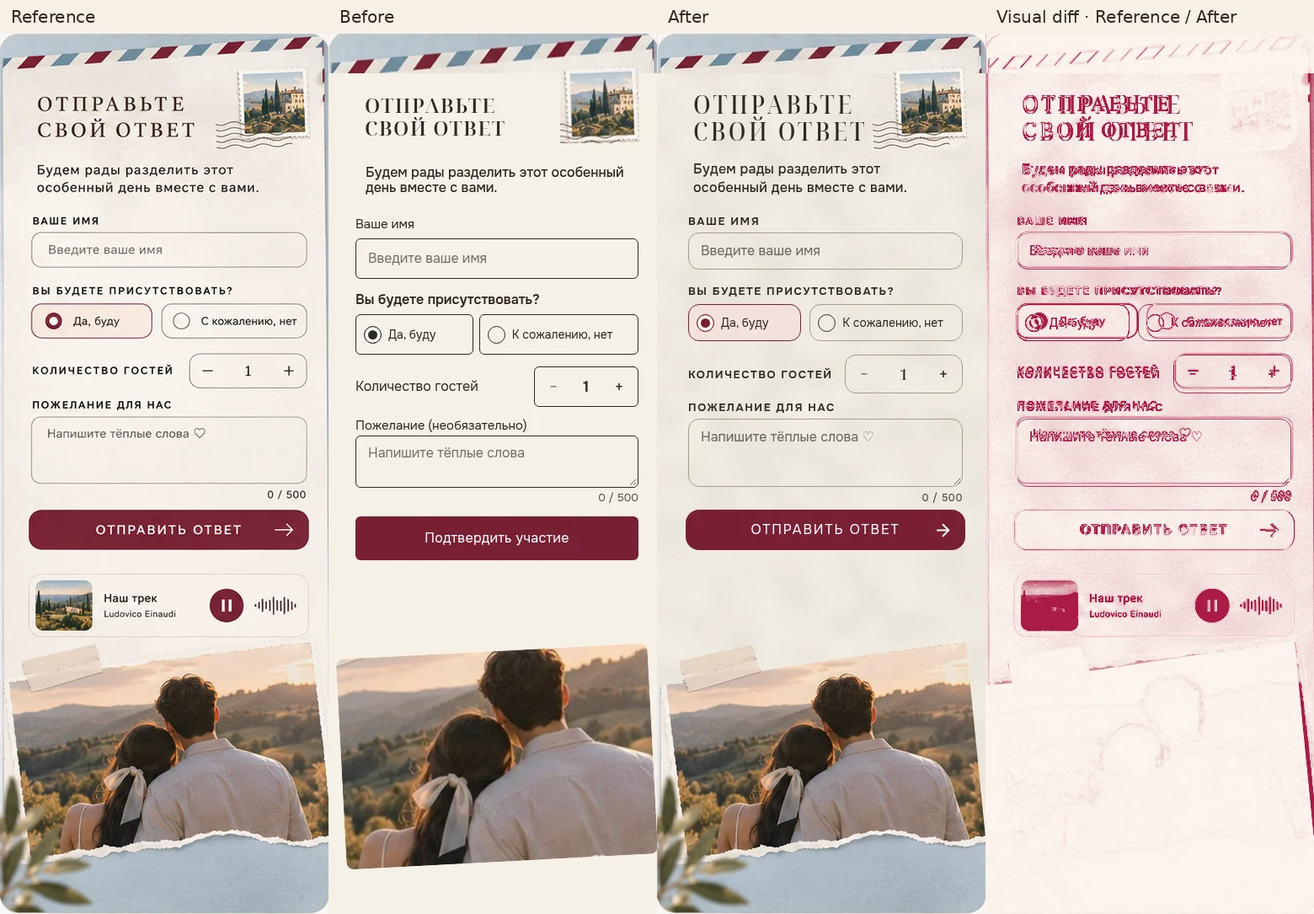
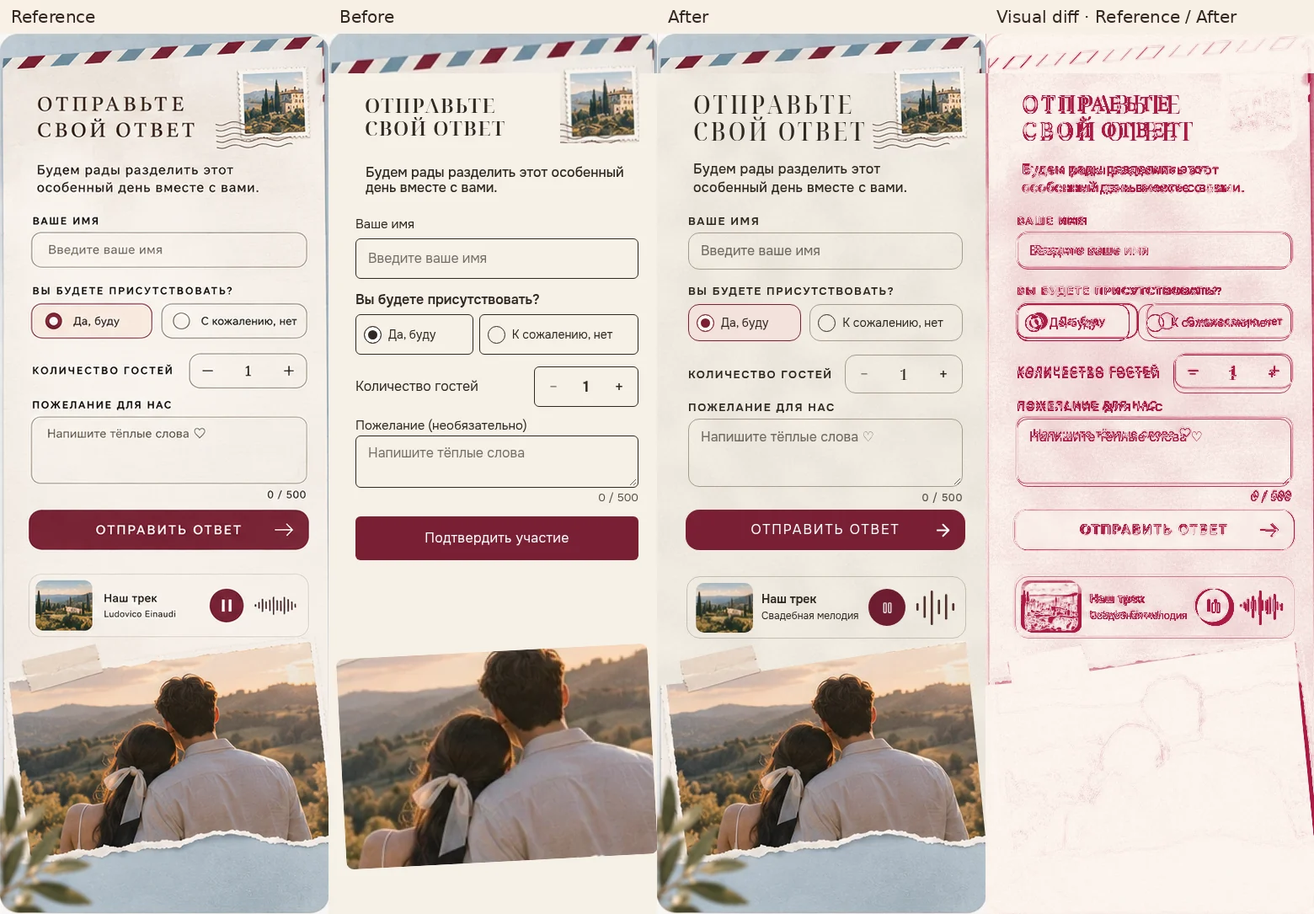
Record final Love Story visual evidence and prepare VF-02

Changed region(s): [[0.7692, 0.6387, 0.9846, 0.6995], [0.5231, 0.6387, 0.7385, 0.6995]]

diff --git a/docs/studio-v2/LOVE-STORY.md b/docs/studio-v2/LOVE-STORY.md
@@ -1,42 +1,45 @@
 # Love Story — VF-01
 
-Кандидат повторной визуальной приёмки. База сравнения — `d68201bbf573563ed29150044f9716256f680238`, merge PR #80. Ручная приёмка владельца ожидается. [Карточка VF-01](../architecture/tasks/VF-01-love-story.md)
+Кандидат повторной визуальной приёмки. Проверенный код — [`d37a4e3794ac321c4c3cdeff59a1f3334b874923`](https://github.com/akkunov/invito/commit/d37a4e3794ac321c4c3cdeff59a1f3334b874923) · [PR #81](https://github.com/akkunov/invito/pull/81). База сравнения — `d68201bbf573563ed29150044f9716256f680238`, merge PR #80. Ручная приёмка владельца ожидается. [Карточка VF-01](../architecture/tasks/VF-01-love-story.md)
 
 ## Локальный просмотр без базы данных
 
 1. Выполните `npm ci` в корне проекта.
-2. В первом терминале запустите `node scripts/fixtures/love-story.mjs`. Fixture слушает только `127.0.0.1:4281`, читает пакет из файла, возвращает синтетические ответы RSVP и ничего не сохраняет.
+2. В первом терминале запустите `node scripts/fixtures/love-story.mjs`. Fixture слушает только `127.0.0.1:4281`, читает пакет из файла, возвращает синтетические ответы RSVP, короткий тестовый тон и ничего не сохраняет.
 3. Во втором терминале соберите и запустите приложение с адресом локального fixture.
 
    ```bash
-   NEXT_PUBLIC_API_URL=http://127.0.0.1:4281/api/v1 npm run build
-   NEXT_PUBLIC_API_URL=http://127.0.0.1:4281/api/v1 npm run start -- --hostname 127.0.0.1 --port 4280
+   export NEXT_PUBLIC_API_URL=http://127.0.0.1:4281/api/v1
+   export NEXT_PUBLIC_SUPABASE_URL=http://localhost:4281
+   export NEXT_PUBLIC_SUPABASE_PUBLISHABLE_KEY=fixture-test-key
+   npm run build
+   npm run start -- --hostname 127.0.0.1 --port 4280
    ```
 
-4. Откройте [приглашение RU](http://127.0.0.1:4280/ru/c/love-story), [приглашение KY](http://127.0.0.1:4280/ky/c/love-story) или [редактор](http://127.0.0.1:4280/ru/editor?template=love-story). Для тестового отказа API используйте имя `Сбой`. Варианты `love-story-long`, `love-story-closed` и `love-story-unavailable` показывают длинные данные, закрытую форму и недоступность приёма.
+4. Откройте [приглашение RU](http://127.0.0.1:4280/ru/c/love-story), [приглашение KY](http://127.0.0.1:4280/ky/c/love-story) или [редактор](http://127.0.0.1:4280/ru/editor?template=love-story). Для тестового отказа API используйте имя `Сбой`. Варианты `love-story-long`, `love-story-closed` и `love-story-unavailable` показывают длинные данные, закрытую форму и недоступность приёма. `love-story-silent` показывает релиз без аудио.
 5. Для автоматического повтора укажите папку с установленным Playwright в `STUDIO_BROWSER_PREFIX`. Можно использовать системный Chromium через `CHROMIUM_PATH`.
 
    ```bash
-   npm install --prefix /tmp/eventiq-vf-01-browser playwright
-   /tmp/eventiq-vf-01-browser/node_modules/.bin/playwright install chromium
+   npm install --prefix /tmp/eventiq-vf-01-browser playwright@1.56.1
+   /tmp/eventiq-vf-01-browser/node_modules/.bin/playwright install --only-shell chromium
    STUDIO_BROWSER_PREFIX=/tmp/eventiq-vf-01-browser \
-     node scripts/fixtures/capture-love-story.mjs /tmp/eventiq-vf-01
+     node scripts/fixtures/capture-love-story.mjs /tmp/eventiq-vf-01 --owner
    ```
 
 Для базового сравнения сохраните `git show d68201b:templates/packages/love-story.v1.json > /tmp/love-story-before.json`. Запустите fixture с этим файлом как первым аргументом и откройте приложение от того же базового SHA. Режим `--capture-only` снимает исходные четыре артборда без тестов новых вариантов.
 
 ## Сравнение артбордов
 
-Все четыре пары сняты в Chromium при viewport 390 × 1045 CSS px и DPR 1. Локаль RU, одно приглашение с демонстрационными значениями, фиксированное время, RSVP в состоянии ожидания ввода. Используются Onest и Noto Serif Display из приложения. Сравнения показывают слева направо оригинал, Before, After и diff оригинала с After. Цвет diff кодирует величину максимального расхождения RGB на пиксель. Сам артборд целиком нигде не используется как видимый слой.
+Все четыре пары сняты в Chromium при viewport 390 × 1045 CSS px и DPR 1. Локаль RU, одно приглашение с демонстрационными значениями, фиксированное время, RSVP в состоянии ожидания ввода. На четвёртом артборде After тестовый тон запущен нажатием, как в макете с кнопкой паузы. Используются Onest и Noto Serif Display из приложения. Сравнения показывают слева направо оригинал, Before, After и diff оригинала с After. Цвет diff кодирует величину максимального расхождения RGB на пиксель. Сам артборд целиком нигде не используется как видимый слой.
 
 | Артборд | Что вызвало расхождение и что исправлено | Что осталось | Доказательство |
 | --- | --- | --- | --- |
 | 01 · Обложка | Плоская заливка и малый исходный кроп давали резкий стык и слишком крупный портрет. Восстановлены небо, общая композиция и кадр в исходных координатах. Имена и дата остались текстом. Параметры ширины букв и размера сохраняют две крупные строки для исходного RU. | Есть отличия в рисунке шрифта, межбуквенных расстояниях и восстановленной фактуре неба. При замене обложки результат перехода зависит от фона загруженного фото. | [Reference](../../tamplates_codex/eventiq-10-templates-codex/design/references/love-story/01-artboard.png) · [Сравнение](template-collection-qa/vf-01/01.webp) |
 | 02 · История | Общие белые прямоугольники заменены отдельными рамками с перфорацией, тремя выпрямленными фотографиями, живой нумерацией, кольцами на линии дат, ветвью и нижним пейзажем. Восстановлены переносы заголовков, интервалы и координаты. | Отличаются фактура бумаги, тени и отдельные переносы. Для произвольно длинных глав общая линия пока не соединена с подросшими строками. | [Reference](../../tamplates_codex/eventiq-10-templates-codex/design/references/love-story/02-artboard.png) · [Сравнение](template-collection-qa/vf-01/02.webp) |
 | 03 · Билет, программа, место | Вместо прямоугольной заглушки восстановлены многослойная бумага, рельефная кромка, растительный элемент и печать. Дата, время, программа и адрес редактируются. Вернулись ряд пиктограмм, календарная кнопка и исходный кадр площадки. | Пиктограммы перерисованы средствами Lucide. Мелкие отличия гарнитуры, засечек и фактуры билета остаются. Адрес и площадка относятся к демонстрационным данным из handoff. | [Reference](../../tamplates_codex/eventiq-10-templates-codex/design/references/love-story/03-artboard.png) · [Сравнение](template-collection-qa/vf-01/03.webp) |
-| 04 · RSVP | Вариант общих контролов восстановил цвета, рамки, радиогруппу, счетчик, поле пожелания и кнопку открытки. Полоса, марка, лента, финальное фото и рваный край — отдельные слои. Кнопки сохраняют рабочий размер и состояния в обеих локалях. | В оригинале показана музыкальная карточка с конкретной записью. Handoff не содержит разрешённого аудио и компактного плеера, поэтому на idle-кадре этот блок пуст. Сохранились небольшие отличия фактуры бумаги, пиктограммы стрелки и кромки. | [Reference](../../tamplates_codex/eventiq-10-templates-codex/design/references/love-story/04-artboard.png) · [Сравнение](template-collection-qa/vf-01/04.webp) |
+| 04 · RSVP | Вариант общих контролов восстановил цвета, рамки, радиогруппу, счетчик, поле пожелания и кнопку открытки. Полоса, марка, лента, финальное фото и рваный край — отдельные слои. Кнопки сохраняют рабочий размер. Карточка с пейзажем, описанием, Play/Pause и графическим звуковым знаком использует общий виджет. | В тестовом приглашении звучит синтетический тон. Отличаются подпись трека, фактура бумаги, пиктограммы и рваная кромка. | [Reference](../../tamplates_codex/eventiq-10-templates-codex/design/references/love-story/04-artboard.png) · [Сравнение](template-collection-qa/vf-01/04.webp) |
 
-[Готовое приглашение RU](template-collection-qa/vf-01/full.webp) · [Готовое приглашение KY](template-collection-qa/vf-01/ky-full.webp) · [Кадры RSVP](template-collection-qa/vf-01/rsvp-states.webp)
+[Готовое приглашение RU](template-collection-qa/vf-01/full.webp) · [Готовое приглашение KY](template-collection-qa/vf-01/ky-full.webp) · [Кадры RSVP](template-collection-qa/vf-01/rsvp-states.webp) · [Загрузка MP3 в редакторе](template-collection-qa/vf-01/editor-music-upload.webp)
 
 ## Источники и совместимость
 
@@ -45,6 +48,12 @@
 Кандидат использует те же slug и ID полей. URL ранее опубликованных ресурсов и их файлы сохранены. Новые ресурсы имеют префикс `/images/collection/love-story/vf-01/`. Файл `love-story.v1.json` по-прежнему использует формат пакета v1. Его обновление в рамках этого PR не публикует версию в базе. Импорт и переключение публичной версии относятся к [TPL-02](../architecture/tasks/TPL-02-append-template-version.md) и [TPL-04](../architecture/tasks/TPL-04-template-version-rollout.md).
 
 Движок использует опциональные параметры текста и виджетов. Старые документы без этих параметров продолжают работать по прежним правилам. Остальные случаи для общего движка зафиксированы в [ENG-01](../architecture/tasks/ENG-01-renderer-fidelity-contract.md#наблюдения-vf-01) и [ENG-02](../architecture/tasks/ENG-02-renderer-optional-capabilities.md#наблюдения-vf-01).
+
+## Музыка и безопасная загрузка
+
+Редактор показывает «Загрузить MP3» в инструменте «Музыка» у шаблонов с разрешением `allowUpload`. Нужен аккаунт. Лимит MP3 — 15 МБ и 15 минут. Общий путь загрузки проверяет байты, SHA-256, MIME и MP3 на сервере. Сохранение и публикация проверяют владельца, личный Workspace и статус READY. Черновик и релиз хранят ссылку на верифицированный файл. В публичном приглашении звук включается по нажатию. У пакета пустой источник по умолчанию и карточка появляется после выбора трека.
+
+Playwright подставляет тестовую сессию и перехватывает запросы R2. Старый контракт сохраняет список разрешённых треков. Обычный издательский workflow, настройки проекта и старые URL ресурсов сохранены. [Политика медиа](../backend/ADR-029-04-MEDIA.md)
 
 ## Измерения и проверки
 
@@ -55,9 +64,10 @@
 | 01 · Обложка | 50,8% | 5,4% |
 | 02 · История | 39,6% | 13,5% |
 | 03 · Билет и программа | 42,8% | 9,4% |
-| 04 · RSVP | 33,6% | 9,9% |
+| 04 · RSVP | 33,6% | 9,8% |
 
-- Browser подтвердил живой рендер. Playwright Chromium 156 подтвердил четыре артборда 390 × 1045 при DPR 1, 12 гостевых экранов RU/KY на 320/360/375/390/412/430 px, длинные имена и описание главы, изменение имени в клиентском редакторе, переход к истории и выгрузку календаря с `DTSTART:20270529T110000Z`. Для карты проверена сгенерированная ссылка.
-- RSVP проверен со статусами пустого имени, отправки, ошибки API с сохранением пожелания, отказа с нулём гостей, успеха, закрытия и недоступности. Все запросы были локальными. В браузерной проверке не было необработанных ошибок JavaScript.
-- Frontend/backend typecheck и production build прошли. Прошли 20 frontend/контрактных наборов и 19 backend unit-тестов. В их числе `test:template-assets` (20/20), `test:template-collection` (13/13), `test:mobile-editor-v3` (16/16), а также приглашения, layout, responsive, appearance, registry, linked components, персонализация, редактор, backend contract и пакеты семи существующих шаблонов. Контрактный тест заменяет по очереди все шесть фото и проверяет неизменность геометрии и блокировки декора. Загрузка в R2 и production-публикация не входили в проверку.
-- Полный lint остался на исходных 52 ошибках и 52 предупреждениях. Отдельный PostgreSQL для визуальной проверки не требовался. Ручная визуальная приёмка и проверки на физических телефонах остаются открыты.
+- Browser подтвердил воспроизведение и паузу. Playwright Chromium 156 снял четыре артборда 390 × 1045 DPR 1 и проверил RU/KY на 320×568, 360×800, 375×812, 390×844, 412×915 и 430×932. Проверены длинные имена и описание главы, переход к истории, календарный файл, URL карты и управление музыкой. Повтор на Chromium 141 из CI охватывает те же сценарии.
+- Playwright через UniversalMobileEditor обновил все разрешённые текстовые поля, дату и время свадьбы, время строки программы, срок и лимит RSVP. Загружены все шесть фото и MP3. Проверены отклонение неверного формата, сохранение выбора при перезагрузке черновика и удаление трека. Гостевой RSVP проверен при пустом имени, отправке, ошибке с сохранением пожелания, отказе, успехе, закрытии и недоступности.
+- Прошли frontend/backend typecheck и production build, 20 наборов фронтенда и контрактов, 19 backend unit-тестов и 6 тестов на отдельной PostgreSQL 17. Основные наборы включают `test:template-assets` (20/20), `test:template-collection` (14/14), `test:mobile-editor-v3` (16/16) и проверки старых шаблонов. E2E подтвердил целостность MP3, ограничения на чужое и непроверенное медиа, сохранение, открытие и новую публикацию с подписанным источником. JWT и объектное хранилище использовали тестовые адаптеры.
+- Исправлена установка Chromium. Ошибка 403 от стороннего APT-репозитория больше не участвует в установке браузера. Обе задачи Pages используют один изолированный экспорт Studio. Локальный запуск Chromium после установки, аудит 65 маршрутов и изолированная сборка Pages прошли. [GitHub Actions](https://github.com/akkunov/invito/pull/81/checks)
+- Полный lint остался на исходных 52 ошибках и 52 предупреждениях. Ручная визуальная приёмка и проверки на физических телефонах остаются открыты. Vercel сообщает `Deployment was blocked`. Проверка локальной production-сборки выполнена отдельно.

diff --git a/docs/architecture/PROJECT-STATUS.md b/docs/architecture/PROJECT-STATUS.md
@@ -39,8 +39,8 @@
 | ID | Название | Приоритет | Статус | Зависимости | Ветка | SHA реализации | Результаты тестов | Ручная приёмка | Известные проблемы | Следующее действие |
 | --- | --- | --- | --- | --- | --- | --- | --- | --- | --- | --- |
 | [000](tasks/000-eventiq-4-1-foundation.md) | Eventiq 4.1 Development Foundation | P0 | REVIEW | — | `docs/eventiq-4-1-foundation` | [`48a95e16071425feda7cbdd2228467361bb814cb`](https://github.com/akkunov/invito/commit/48a95e16071425feda7cbdd2228467361bb814cb) · [PR #80](https://github.com/akkunov/invito/pull/80) | Baseline команды выше; документационный diff, ссылки, карточки и DAG проверены. | Ожидается ревью документации | Продуктовый lint и static export имеют исходные сбои. | Проверить PR. Следующая отдельная задача — VF-01. |
-| [VF-01](tasks/VF-01-love-story.md) | Love Story — повторная визуальная приёмка | P0 | REVIEW | [000](tasks/000-eventiq-4-1-foundation.md) | `feat/eventiq-4-1-vf-01-love-story` | [`305a46781891a05ff93daba1fb05e83a0a207be1`](https://github.com/akkunov/invito/commit/305a46781891a05ff93daba1fb05e83a0a207be1) · [PR #81](https://github.com/akkunov/invito/pull/81) | 4 сравнения, Chromium RU/KY на шести ширинах, frontend/backend typecheck и build, 20 регрессионных наборов и 19 backend unit. | Ожидает владельца, прежний дизайн отклонён. | Нет разрешённого трека для образца. Остаточные расхождения и ограничения рендера в отчёте. Исходный lint 52/52. | Разобрать четыре сравнения и получить ручное решение владельца по кандидату. [Артефакты](../studio-v2/LOVE-STORY.md) |
-| [VF-02](tasks/VF-02-vogue-wedding.md) | Vogue Wedding — повторная визуальная приёмка | P1 | TODO | [VF-01](tasks/VF-01-love-story.md) | план `qa/eventiq-vf-02-vogue-wedding` | — | Не запускались для этой задачи | Не проведена | Обязательны 4 тройки reference/render/diff и отдельная ручная отметка. | Применить протокол после первого эталона. |
+| [VF-01](tasks/VF-01-love-story.md) | Love Story — повторная визуальная приёмка | P0 | REVIEW | [000](tasks/000-eventiq-4-1-foundation.md) | `feat/eventiq-4-1-vf-01-love-story` | [`d37a4e3794ac321c4c3cdeff59a1f3334b874923`](https://github.com/akkunov/invito/commit/d37a4e3794ac321c4c3cdeff59a1f3334b874923) · [PR #81](https://github.com/akkunov/invito/pull/81) | 4 сравнения, обе локали на 6 размерах, все поля редактора, MP3, 20 frontend/контрактных наборов, 19 backend unit, 6 PostgreSQL E2E. | Ожидает владельца. | В fixture звучит собственный тестовый тон. Исходный lint 52/52. | Ручная приёмка Love Story. [Отчёт](../studio-v2/LOVE-STORY.md) |
+| [VF-02](tasks/VF-02-vogue-wedding.md) | Vogue Wedding — повторная визуальная приёмка | P1 | TODO | [VF-01](tasks/VF-01-love-story.md) | план `qa/eventiq-vf-02-vogue-wedding` | — | Не запускались для этой задачи | Не проведена | Обязательны 4 тройки reference/render/diff и отдельная ручная отметка. | Карточка подготовлена. После решения по VF-01 снять Before по четырём PNG 390 × 1048. |
 | [VF-03](tasks/VF-03-italian-romance.md) | Italian Romance — повторная визуальная приёмка | P1 | TODO | [VF-01](tasks/VF-01-love-story.md) | план `qa/eventiq-vf-03-italian-romance` | — | Не запускались для этой задачи | Не проведена | Обязательны 4 тройки reference/render/diff и отдельная ручная отметка. | Применить протокол после первого эталона. |
 | [VF-04](tasks/VF-04-cinema-wedding.md) | Cinema Wedding — повторная визуальная приёмка | P1 | TODO | [VF-01](tasks/VF-01-love-story.md) | план `qa/eventiq-vf-04-cinema-wedding` | — | Не запускались для этой задачи | Не проведена | Обязательны 4 тройки reference/render/diff и отдельная ручная отметка. Оригинальное видео не подтверждено. | Применить протокол после первого эталона. |
 | [VF-05](tasks/VF-05-secret-garden.md) | Secret Garden — повторная визуальная приёмка | P1 | TODO | [VF-01](tasks/VF-01-love-story.md) | план `qa/eventiq-vf-05-secret-garden` | — | Не запускались для этой задачи | Не проведена | Обязательны 4 тройки reference/render/diff и отдельная ручная отметка. | Применить протокол после первого эталона. |

diff --git a/docs/architecture/tasks/VF-02-vogue-wedding.md b/docs/architecture/tasks/VF-02-vogue-wedding.md
@@ -51,3 +51,10 @@ Playwright 4 борда при исходных размерах и мобиль
 ## Definition of Done
 
 В PR приложены 4 комплекта артефактов, функциональные результаты, QA matrix, SHA рендера и явная отметка ручной приёмки по каждому борду. Обновлён реестр. При открытом визуальном дефекте запись остаётся REVIEW или BLOCKED с объяснением.
+
+## Подготовка после VF-01
+
+- Вход для следующего этапа — актуальный `origin/main` после решения владельца по PR #81. Рабочая ветка по реестру `qa/eventiq-vf-02-vogue-wedding`. Карточка остаётся `TODO`, реализация Vogue в PR #81 не начата.
+- Исходники — четыре PNG 390 × 1048, `geometry.json`, `photo-crops/`, `decoration-crops/` и спецификация Vogue. Исходный пакет — `vogue-wedding.v1.json` с четырьмя секциями `cover`, `invitation`, `gallery` и `rsvpPage`. [Спецификация](../../../tamplates_codex/eventiq-10-templates-codex/design/Vogue-Wedding-Codex-Spec.md)
+- Снять Before на общем гостевом маршруте и зафиксировать часы для таймера. Сопоставить портрет и подпись обложки, таймер и строки программы, швы мозаики 1–2–1, площадку и контраст чёрного RSVP. Сравнить Reference / Before / After / Diff при DPR 1 и исходной высоте, отдельно проверить RU/KY и 320–430 px.
+- Переиспользовать подход локального HTTP fixture и полномасштабных снимков из VF-01. Проверить загрузку фото через существующий контракт, отсутствие скролла по горизонтали, видимый фокус и отказ/успех RSVP. Хранить новую графику по отдельному префиксу версии и сопоставить причины расхождений с [ENG-01](ENG-01-renderer-fidelity-contract.md). Производственной БД для этой работы не требуется.

diff --git a/docs/architecture/tasks/ENG-01-renderer-fidelity-contract.md b/docs/architecture/tasks/ENG-01-renderer-fidelity-contract.md
@@ -55,6 +55,6 @@ Acceptance Criteria закрыты воспроизводимыми провер
 - `layoutCollection` сдвигает последующие слои при увеличении текста, но не связывает линию истории, рамку и высоту главы. Проверять длинные тексты на 320 px, включая положение декоративных маркеров.
 - Одиночные редактируемые фото в Studio v2 не используют существующий диалог галерей. Установить критерии выбора фото, возврата фокуса и сохранения разрешений без новой галереи или передачи владения.
 - Типографические параметры `widthScale` и `fitMinFontSize` уже опциональны в контракте. Для визуального авторинга нужно проверить их экспонирование в Studio и поведение во всех preview/export путях.
-- Music виджет хранит источник и выводит основной play/pause. Карточка из референса требует реальных метаданных и разрешённого источника. Отсутствующий трек не должен выглядеть доступным.
+- Общий Music виджет получил компактный вариант и опциональную загрузку MP3 в VF-01. Метаданные провайдера, фактическая форма сигнала и единый контроллер для нескольких одновременных треков остаются в музыкальных задачах.
 
 [Сравнения Love Story](../../studio-v2/LOVE-STORY.md)

diff --git a/docs/architecture/EVENTIQ-4.1-MASTER-PLAN.md b/docs/architecture/EVENTIQ-4.1-MASTER-PLAN.md
@@ -265,4 +265,4 @@ flowchart LR
 - Typecheck/lint/build и относящиеся регрессии идут на актуальном SHA. Измерения производительности фиксируют данные, устройство, браузер, объём ответа, число SQL и сетевых вызовов, p95 и артефакты. Для публичных поверхностей ориентиры 4.0 — полевые p75 LCP ≤2.5 с, INP ≤200 мс и CLS ≤0.1. Лабораторные результаты указываются отдельно. Релиз также требует проверки аутентификации, хранения, журналов, метрик, очередей и отката.
 - Внешние приёмки идут на тестовых Google/Supabase, test WABA и подтверждённых треках, с поддерживаемыми iOS Safari/Android Chrome. В mock-результатах отдельно отмечать недоступные живые проверки.
 
-**Следующая задача** — VF-01 Love Story после ревью TASK 000. Первый инкремент снимает эталонный комплект артефактов без доступа к рабочей базе. [Карточка VF-01](tasks/VF-01-love-story.md)
+Love Story ожидает ручной приёмки в VF-01. Следующая задача — VF-02 Vogue Wedding. Карточка содержит порядок сравнения четырёх артбордов и регрессии. [VF-01](tasks/VF-01-love-story.md) · [VF-02](tasks/VF-02-vogue-wedding.md)

diff --git a/docs/architecture/tasks/ENG-02-renderer-optional-capabilities.md b/docs/architecture/tasks/ENG-02-renderer-optional-capabilities.md
@@ -52,4 +52,4 @@ Acceptance Criteria закрыты воспроизводимыми провер
 
 ## Наблюдения VF-01
 
-Кандидаты после проверки границ в ENG-01 — общая привязка декора к расширяемым строкам, общее открытие отдельных фото в галерейном диалоге, маска перехода новой обложки в небо и авторинг опциональных параметров текста. Метаданные и компактное оформление музыкального блока согласовать с [MUS-01](MUS-01-music-provider-contract.md) и [MUS-05](MUS-05-shared-music-player.md). Проверить старые документы без новых значений. [Сравнения Love Story](../../studio-v2/LOVE-STORY.md)
+Кандидаты после проверки границ в ENG-01 — общая привязка декора к расширяемым строкам, общее открытие отдельных фото в галерейном диалоге, маска перехода новой обложки в небо и авторинг опциональных параметров текста. Метаданные провайдера и реальную форму сигнала согласовать с [MUS-01](MUS-01-music-provider-contract.md) и [MUS-05](MUS-05-shared-music-player.md). Проверить старые документы без новых значений. [Сравнения Love Story](../../studio-v2/LOVE-STORY.md)

diff --git a/docs/architecture/tasks/VF-01-love-story.md b/docs/architecture/tasks/VF-01-love-story.md
@@ -54,6 +54,6 @@ Playwright 4 борда при исходных размерах и мобиль
 
 ## Передача на ревью
 
-[`305a46781891a05ff93daba1fb05e83a0a207be1`](https://github.com/akkunov/invito/commit/305a46781891a05ff93daba1fb05e83a0a207be1) · [PR #81](https://github.com/akkunov/invito/pull/81)
+[`d37a4e3794ac321c4c3cdeff59a1f3334b874923`](https://github.com/akkunov/invito/commit/d37a4e3794ac321c4c3cdeff59a1f3334b874923) · [PR #81](https://github.com/akkunov/invito/pull/81)
 
-Проверены 12 экранов RU/KY и состояния формы. Исходный lint остался 52/52. Ограничения по общему рендеру перенесены в заметки ENG-01/02. Следующее действие — ручное решение владельца по четырём сравнениям.
+Проверены 12 экранов RU/KY, все шесть замен фото, все доступные тексты, даты и время, RSVP и загрузка MP3. На отдельной PostgreSQL прошли верификация, сохранение, повторное открытие и публикация. Исходный lint остался 52/52. Следующее действие — ручное решение владельца по четырём сравнениям. [Отчёт](../../studio-v2/LOVE-STORY.md) · [Подготовленная VF-02](VF-02-vogue-wedding.md)
